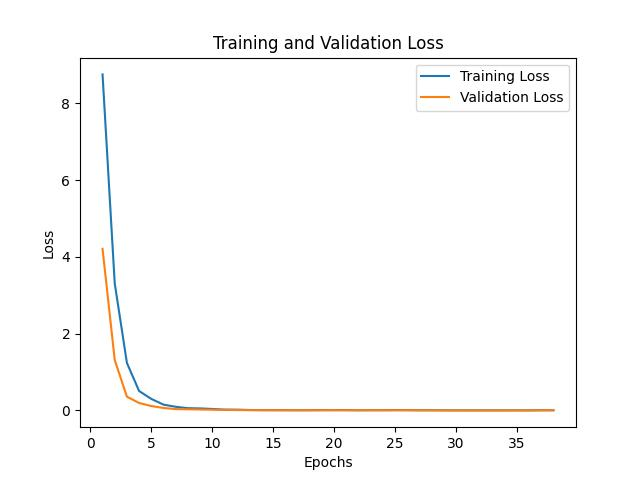
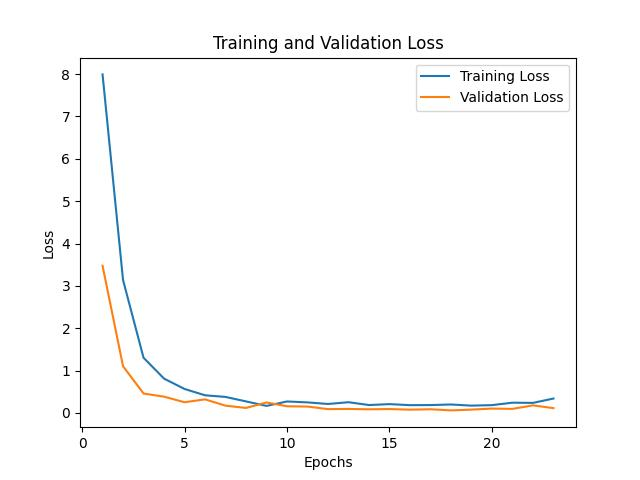
update loss

diff --git a/train.py b/train.py
@@ -14,7 +14,7 @@ from model import TransformerDecoder
 config = OmegaConf.load("config/config.yaml")
 
 block_size = config.model.block_size
-train_dataset = TokenDataset(**config.data.val, block_size=block_size)
+train_dataset = TokenDataset(**config.data.train, block_size=block_size)
 val_dataset = TokenDataset(**config.data.val, block_size=block_size)
 
 train_dataloader = DataLoader(train_dataset, **config.dataloader)

diff --git a/README.md b/README.md
@@ -78,5 +78,5 @@ trainer:
 ### Test
 After training for 100 epochs, the results of this gpt are still very random and do not make any sense semantically, however this is just an initial LM that i played with.
 Given the presequence: [Backprppagation is], the decoder generates these outputs:
-- Backpropagation is in last it should fire
-- Backpropagation is in 1986 a of hidden 
+- Backpropagation is not lin at certain plotting
+- Backpropagation is more do take take there
